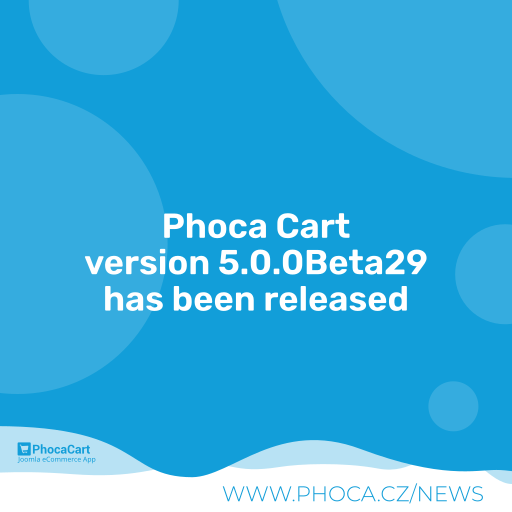
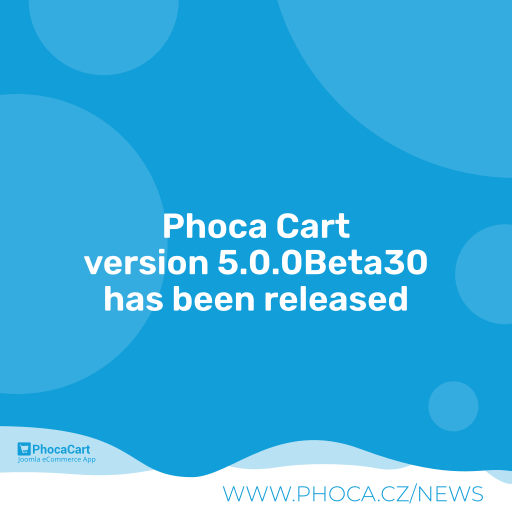
5.0.0Beta30

Changed region(s): [[0.1562, 0.4688, 0.8438, 0.5312]]

diff --git a/media/css/spec/yootheme.css b/media/css/spec/yootheme.css
@@ -185,3 +185,11 @@ img {
 .ph-filter-box-horizontal .uk-dropdown-box li {
     list-style-type: none;
 }
+
+.ph-row-flex.grid .row-item {
+    margin-bottom: 1em;
+}
+
+.ph-items .ph-cb {
+    display: none;
+}

diff --git a/admin/views/phocacartdownloads/tmpl/default.php b/admin/views/phocacartdownloads/tmpl/default.php
@@ -153,7 +153,8 @@ if ($status == '') {
 }
 //COM_PHOCACART_DOWNLOAD_DATE_EXPIRED
 echo $r->td($status, "small");
-echo $r->td($item->date, "small");
+//echo $r->td($item->date, "small");
+echo $r->td(HTMLHelper::date($item->date, Text::_('DATE_FORMAT_LC5')), "small");
 echo $r->td($item->download_hits, "small");
 echo $r->td($item->id, "small");
 

diff --git a/README.MD b/README.MD
@@ -132,7 +132,7 @@ Phoca Cart is e-commerce extension - powerful shopping cart for Joomla! CMS. Pho
 
 ## Version (Joomla! 5.x)
 
-5.0.0Beta29
+5.0.0Beta30
 
 
 
